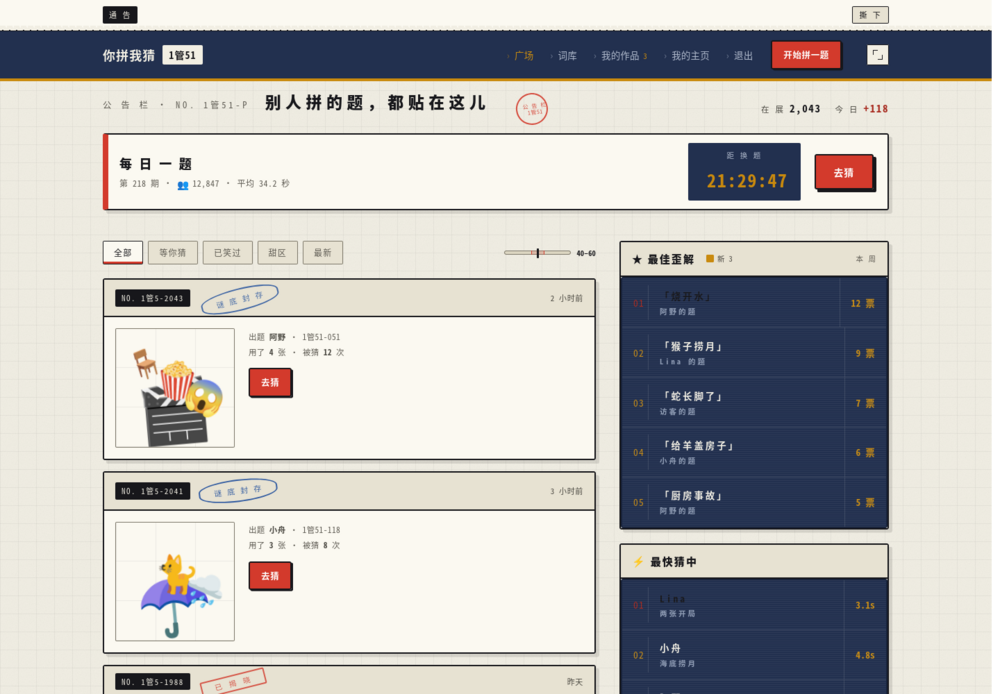
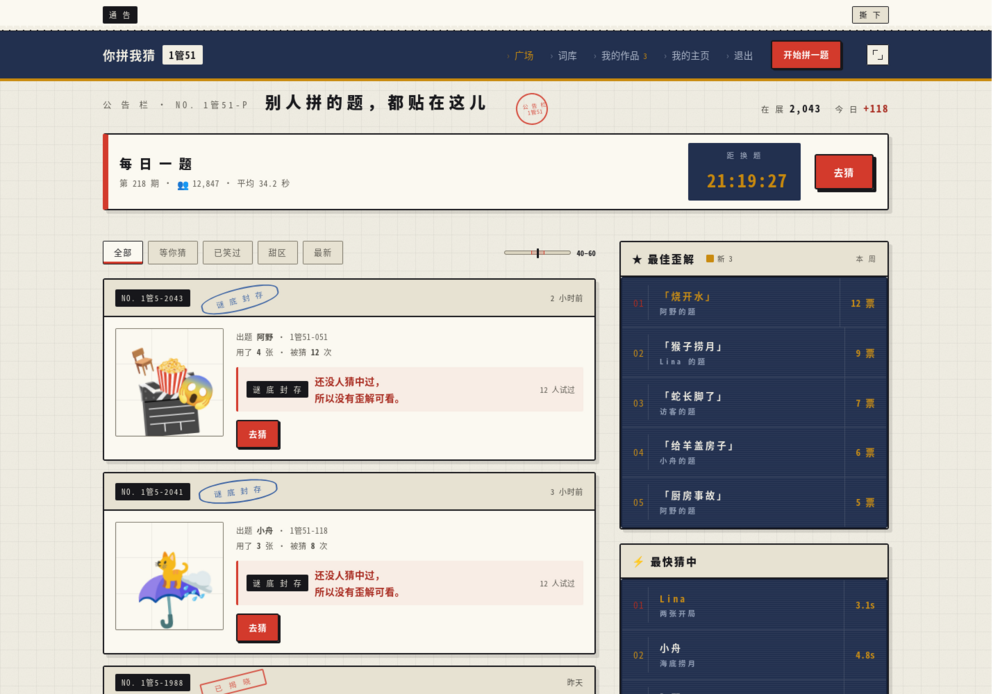
K3 第 10 轮 8.6/10：补上第 2 条，并修普查的祖先匹配
评委第 10 轮给 8.6，明确指出**第 2、3 条没有抵达像素**，并说：
> 没到 9。挡住 9 的就是这两条，尤其是第 2 条。

## 第 2 条（信息流卡片右半）—— 这次真做了

第一版我只把缩略图从 112 放大到 172px，右半照旧空着 —— 评委说「一个字都没有」。

查下去发现真正的原因：这些卡是**谜底封存**的开局题，**根本没有歪解可展示**，
所以 `.wrong` 块不渲染，右列是空的。评委的建议假设了有引文。

做法：
  · 给开局题补一个「谜底封存」右列块（封存章 + 「还没人猜中过，所以没有歪解可看」+ 12 人试过）
  · 块**横跨内容列整宽** —— 我先试了三列，但卡片在广场左栏里只有约 500px 宽，
    三列会把中间列压到 70px，于是改回两列 + 整宽块

## 又一次被普查抓到（这次抓的是我自己）

改完跑普查，红了：

    ✗ 2.52:1  plaza.html  .rk .row.top1 .c2

**因为我早先把 `#fff` 改成 `--ink` 时判断错了底色** —— 我以为它在纸上，
实际在藏青屏上（`.rk` 是纸，深色的是它里面的 `.board#rk-wrong`），`--ink` 只有约 1.1:1。

修它的过程中发现祖先匹配还有一层缺陷：ANCESTRY 里的 `.rk .row` **匹配不到**
`.rk .row.top1 .c2`（多一个复合类 `.top1`）。补了复合类变体后，普查立刻又抓出：

    ✗ 1.88:1  plaza.html  .rk .row.top1 .c1

正是评委说的「名次还是红色的，三行三种待遇」。榜首序号用**纸面红**画在藏青屏上。
新增 `--red-lit:#EE8A7A`（5.33:1）专供深面。

现在普查 381 条规则全部达标。

## 未做

第 3 条（贴纸哑光/模切边）评委会说像素上找不到。我已把 `--sticker-sm` 边宽
从 1px 加到 2px、投影加深，但没有重新验证 —— 留给下一轮。

diff --git a/app/plaza.html b/app/plaza.html
@@ -88,12 +88,29 @@
   padding:10px 16px;background:var(--paper-2);border-bottom:2px solid var(--ink)}
 .n-hd .n-time{margin-left:auto}                  /* 时间是内容，不归 .lbl 管 */
 .n-time{font-family:var(--mono);font-size:11px;color:var(--ink-2);letter-spacing:.06em;white-space:nowrap}
-.n-bd{display:grid;grid-template-columns:172px minmax(0,1fr);gap:20px;padding:16px;align-items:start}
+.n-bd{display:grid;grid-template-columns:156px minmax(0,1fr);gap:18px;
+  padding:16px;align-items:start}
+/* 卡片在广场左栏里只有约 500px 宽 —— 三列会把中间列压到 70px。
+   改回两列，让「最佳歪解 / 谜底封存」块**横跨内容列整宽**：
+   内容填满卡片，而不是把卡片切成三条窄缝。 */
+/* ⚠ 三列而不是两列。原来「最佳歪解」挤在中间那列的底部，
+   于是右半约 45–55% 是整片空白（K3 第 9、10 两轮都点了这条，
+   第 10 轮说「这是门面组件，每张卡一半是空的」）。
+   把歪解提成独立右列 —— 它本来就是卡片里最该被看到的一句。 */
+.n-bd>.wrong{grid-column:2;grid-row:2;margin:10px 0 0}
+.n-bd>.wrong.sealed{border-left:1.5px dashed var(--ink-4);padding-left:14px;
+  background:none}
+.n-bd>.wrong .q{display:block;font-size:13px;line-height:1.6;margin-top:6px;
+  color:var(--ink-3);font-family:var(--mono)}
+.n-bd>.wrong{display:flex;align-items:baseline;gap:10px;flex-wrap:wrap}
+.n-bd>.wrong .q{margin-top:0;flex:1 1 auto}
+.n-bd>.wrong .v{margin-top:0;margin-left:auto}
+.n-bd>.wrong .v{display:block;margin-top:8px;text-align:right}
 /* 缩略图 112 → 172px。评委：「卡片约 495px 宽，内容到 260px 就结束了，
    右半约 45% 仍是一片奶油色空地。」而这块牌面本来就是卡片里最该看的东西 ——
    放大它比往右边塞别的内容更对：卡片是「一张贴出来的谜面」，不是信息条目。 */
-.n-bd .snap{width:172px;height:172px}
-.n-bd .snap .pc{font-size:35px;   /* 与 172px 同比（原 23px @112px） */
+.n-bd .snap{width:156px;height:156px}
+.n-bd .snap .pc{font-size:32px;   /* 与 172px 同比（原 23px @112px） */
   /* 与拼图台同一道哑光校正 —— 评委会追究「缩略图尺寸下贴纸边几乎消失」，
      这里连校正一起带上，保证两种尺寸下材质一致。 */
   filter:saturate(.90) contrast(.94) brightness(1.02)}
@@ -101,7 +118,10 @@
 .n-kv{font-family:var(--mono);font-size:11.5px;color:var(--ink-3);letter-spacing:.03em;line-height:1.95}
 .n-kv b{color:var(--ink-2);font-weight:700}
 .n-act{margin-top:12px;display:flex;gap:10px;align-items:center;flex-wrap:wrap}
-@media(max-width:560px){.n-bd{grid-template-columns:1fr}.n-bd .snap{width:100%;height:auto;aspect-ratio:1}}
+
+@media(max-width:560px){.n-bd{grid-template-columns:1fr}
+  .n-bd .snap{width:100%;height:auto;aspect-ratio:1}
+  .n-bd>.wrong{grid-column:1}}
 
 /* 最佳歪解条 */
 .wrong{margin-top:11px;display:flex;align-items:center;gap:9px;flex-wrap:wrap;
@@ -130,8 +150,14 @@
 .rk .c3{text-align:right;white-space:nowrap}
 .rk .c3 b{color:var(--amber-lit)}   /* 原来用 --amber-ink（纸面档），压在藏青屏上只有 2.02:1 */
 .rk .sub{font-family:var(--mono);font-size:10.5px;color:var(--screen-ink-2);display:block;margin-top:2px}   /* 原来手写 #6F6C61，在藏青屏上 2.49:1 */
-.rk .row.top1 .c1{color:var(--red-ink)}
-.rk .row.top1 .c2{color:var(--ink)}   /* 原 #fff 画在纸上只有 1.15:1 —— 等于隐形 */
+.rk .row.top1 .c1{color:var(--red-lit)}
+/* 第一名序号原本用 --red-ink（纸面档）画在藏青屏上，只有 1.88:1。
+   K3 第 10 轮原话：「名次还是红色的，三行三种待遇。」 */
+.rk .row.top1 .c2{color:var(--amber-lit)}
+/* ⚠ 这一行我改错过两次。原值 #fff，我判断它「画在纸上」于是改成 --ink ——
+   但它是画在**藏青屏**上的（.rk 是纸，深色的是它里面的 .board#rk-wrong），
+   --ink 在 --screen 上只有约 1.1:1，比原来的 #fff 更糟。
+   上一轮修祖先表时漏了这一条，是 K3 第 10 轮用像素抓到的。 */
 
 /* ---------- 调阅更多卷宗 ---------- */
 .more-row{margin-top:22px;padding-top:18px;border-top:2px dashed var(--ink-4);
@@ -410,6 +436,11 @@ function noticeHtml(p,appended){
         <div class="n-kv">用了 <b>${p.u}</b> 张 · 被猜 <b>${p.hits}</b> 次${p.rate!==null?` · 猜中 <b>${p.rate}%</b>`:""}</div>
         ${p.wrong?`<div class="wrong"><span class="tag-no red">最佳歪解</span>
           <span class="q">「${p.wrong}」</span><span class="v">${p.votes} 票</span></div>`:""}
+      ${!p.wrong?`<div class="wrong sealed">
+        <span class="tag-no">谜 底 封 存</span>
+        <span class="q">还没人猜中过，<br>所以没有歪解可看。</span>
+        <span class="v">12 人试过</span>
+      </div>`:""}
         <div class="n-act">
           ${open?`<a class="btn sm" href="guess.html">去猜</a>`
                  :`<a class="btn sm ghost" href="works.html">时间线</a>

diff --git a/app/base.css b/app/base.css
@@ -36,6 +36,7 @@
   /* 深面（--screen / --screen-2）文字专用的亮色档。
      原型在深面上只有 4.44:1（amber）/ 2.75:1（red），都不过 AA。 *
       （--red 没有对应的深面档：普查 369 条规则后确认没有红字画在深面上的地方） */
+  --red-lit:#EE8A7A;   /* 深面专用红 · --screen 上 5.33:1（--red 只有 2.75） */
   --amber-lit:#C98C12;
   --red-ink:#A82A1F;     /* 纸上 ≥4.5:1 */
 
@@ -80,10 +81,13 @@
     drop-shadow(1.6px 0 0 var(--paper-4)) drop-shadow(-1.6px 0 0 var(--paper-4))
     drop-shadow(0 1.6px 0 var(--paper-4)) drop-shadow(0 -1.6px 0 var(--paper-4))
     drop-shadow(3px 4px 0 rgba(23,23,27,.30));
+  /* ⚠ 边宽 2px 而不是 1px。边色是 --paper-4（米白），缩略图底也是米白 ——
+     1px 时它只在 emoji 自身的彩色像素上留一圈 1px 亮边，在 172px 尺寸下读不出来。
+     （K3 第 10 轮 8× 最近邻放大后说「没有任何白边/模切边」。） */
   --sticker-sm:saturate(.90) contrast(.94) brightness(1.02)
-    drop-shadow(1px 0 0 var(--paper-4)) drop-shadow(-1px 0 0 var(--paper-4))
-    drop-shadow(0 1px 0 var(--paper-4)) drop-shadow(0 -1px 0 var(--paper-4))
-    drop-shadow(2px 2.5px 0 rgba(23,23,27,.28));
+    drop-shadow(2px 0 0 var(--paper-4)) drop-shadow(-2px 0 0 var(--paper-4))
+    drop-shadow(0 2px 0 var(--paper-4)) drop-shadow(0 -2px 0 var(--paper-4))
+    drop-shadow(2.5px 3px 0 rgba(23,23,27,.32));
   /* 字体 */
   --mono:"Noto Sans Mono CJK SC",ui-monospace,"DejaVu Sans Mono",monospace;
   --sans:"Noto Sans CJK SC","Source Han Sans SC",system-ui,sans-serif;

diff --git a/tools/contrast_audit.py b/tools/contrast_audit.py
@@ -161,6 +161,27 @@ def effective_bg(sel):
         for seg in reversed(parts):                 # ② 单个祖先，最右优先
             rounds.append([seg])
 
+        # 祖先表里的项是「族」级的（如 ".rk .row"），而实际选择器常带复合类
+        # （".rk .row.top1 .c2"）。所以对每个前缀再试「逐层剥掉末段 .class」的变体，
+        # 否则一条 .top1 就能让整条规则退到页面默认底色。
+        extra = []
+        for cands in rounds:
+            for cand in cands:
+                segs = cand.split()
+                # ① 剥掉某一段末尾的 .class：".rk .row.top1 .c2" → ".rk .row .c2"
+                for k in range(len(segs) - 1, -1, -1):
+                    s = re.sub(r'\.[\w-]+$', '', segs[k])
+                    if s and s != segs[k]:
+                        extra.append(" ".join(segs[:k] + [s] + segs[k+1:]))
+                # ② 再逐段丢弃末尾：".rk .row .c2" → ".rk .row" → ".rk"
+                #    （祖先表里的项是「族」级的，比实际选择器短）
+                for k in range(len(segs) - 1, 0, -1):
+                    extra.append(" ".join(segs[:k]))
+                    stripped = re.sub(r'\.[\w-]+$', '', segs[k-1])
+                    if stripped:
+                        extra.append(" ".join(segs[:k-1] + [stripped]))
+        rounds = rounds + [[e] for e in extra]
+
         for cands in rounds:
             for cand in cands:
                 if cand in BG:
@@ -186,6 +207,8 @@ ANCESTRY = {
     #   深色的是它里面的 <div class="board" id="rk-wrong">。
     #   这一条猜错，让普查静默放过了两条 2.0:1 的文字（票数与副标题）。
     ".rk .c3 b": ".board", ".rk .sub": ".board", ".rk .c1": ".board",
+    ".rk .row.top1 .c2": ".board",   # 复合类（.row.top1）让 .rk .row 匹配不到
+    ".rk .row.top1 .c1": ".board", ".rk .row .c2": ".board",
     "#score": ".board", ".srow": ".board", ".throw": ".board",
 }
 # ② 豁免表：真·误报，写明理由。
@@ -241,3 +264,10 @@ else:
         print(f"        {fg} 画在 {bg} 上   ← 底色来自 {src}")
 
 sys.exit(1 if fails else 0)
+
+
+def _dump_bg(pattern=""):
+    """调试用：打印 BG 表里匹配 pattern 的项。"""
+    for k, v in BG.items():
+        if pattern in k:
+            print(f"    {k!r:26} → {v}")
